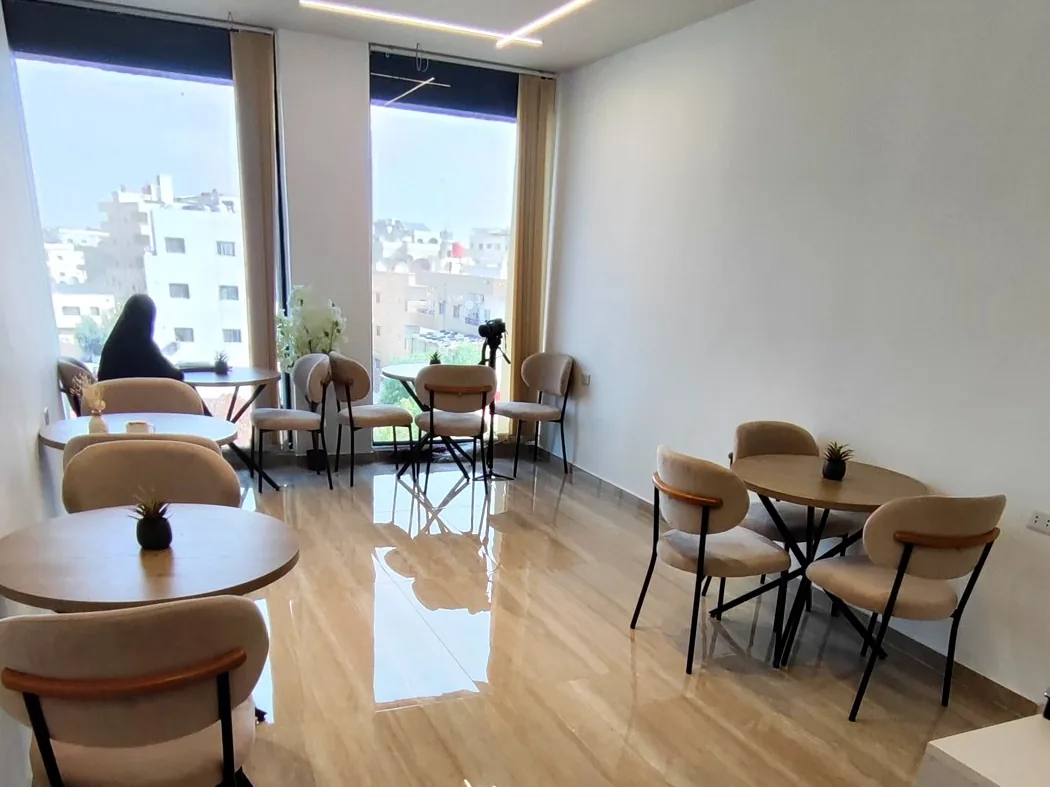
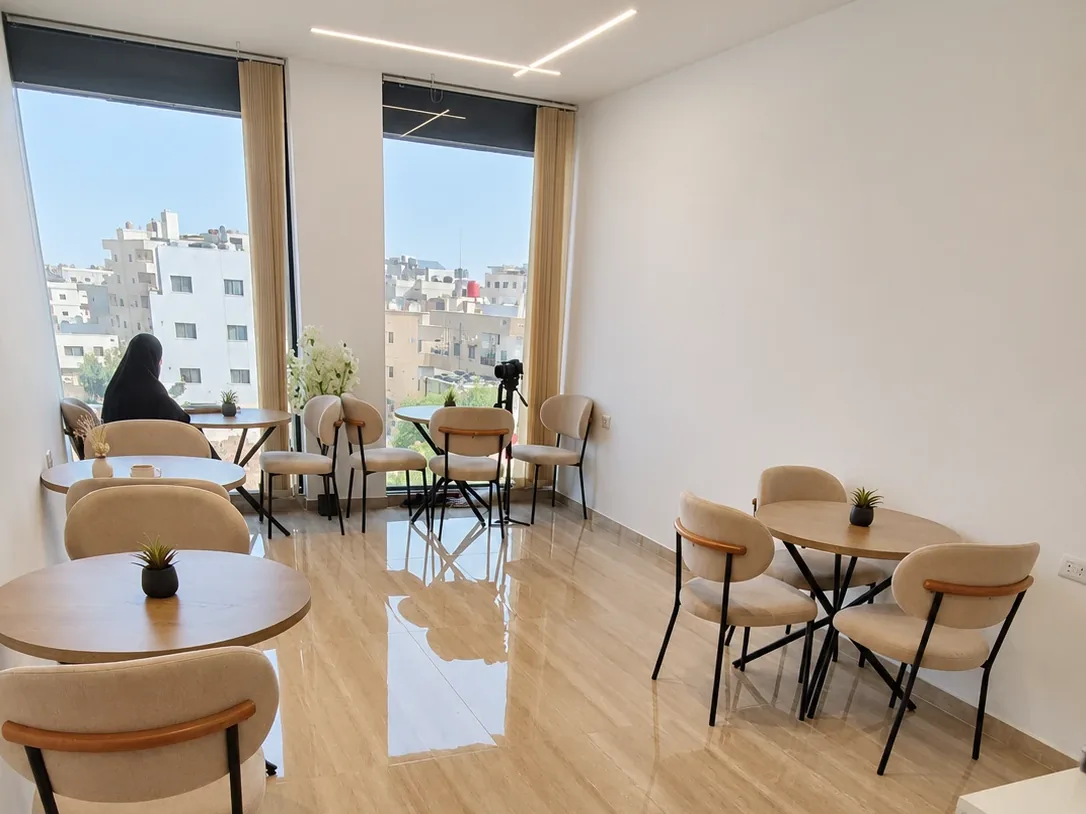
Open space: the owner's photo (site card + room photos at deploy)
Claude-Session: https://claude.ai/code/session_01XxV7HJFvPUvC3H7zrEEocs

diff --git a/focuspoint/shared/content.ts b/focuspoint/shared/content.ts
@@ -194,7 +194,7 @@ const IMG = {
   meetingTable: { src: '/img/room-a-table.webp', small: '/img/room-a-table-720.webp', w: 919, h: 1400, alt: 'طاولة الاجتماعات الخمرية عن قرب مع مقابس الكهرباء' },
   big: { src: '/img/room-b.webp', small: '/img/room-b-720.webp', w: 1105, h: 1400, alt: 'طاولة كبيرة ونوافذ بانورامية تطل على درعا ولوحة THINK OUTSIDE THE BOX' },
   hall: { src: '/img/hall-wide.webp', small: '/img/hall-wide-720.webp', w: 1080, h: 810, alt: 'القاعة التدريبية في فوكس بوينت: طاولات بيضاء وكراسي خمرية بصفوف، شاشة وتكييف وإضاءة هادئة' },
-  open: { src: '/img/open-space.webp', small: '/img/open-space-720.webp', w: 1050, h: 787, alt: 'المساحة المفتوحة في فوكس بوينت: طاولات مدوّرة وكراسي مريحة ونوافذ كبيرة مطلّة على المدينة' },
+  open: { src: '/img/open-space.webp', small: '/img/open-space-720.webp', w: 1086, h: 814, alt: 'المساحة المفتوحة في فوكس بوينت: طاولات مدوّرة وكراسي مريحة ونوافذ كبيرة مطلّة على المدينة' },
   bigWide: { src: '/img/room-b-wide.webp', small: '/img/room-b-wide-720.webp', w: 1400, h: 821, alt: 'المساحة من الداخل: طاولة كبيرة، كراسي مريحة، ونوافذ واسعة مليانة ضوء' },
 } satisfies Record<string, Photo>
 const photo = (p: Photo): Photo => ({ ...p })
